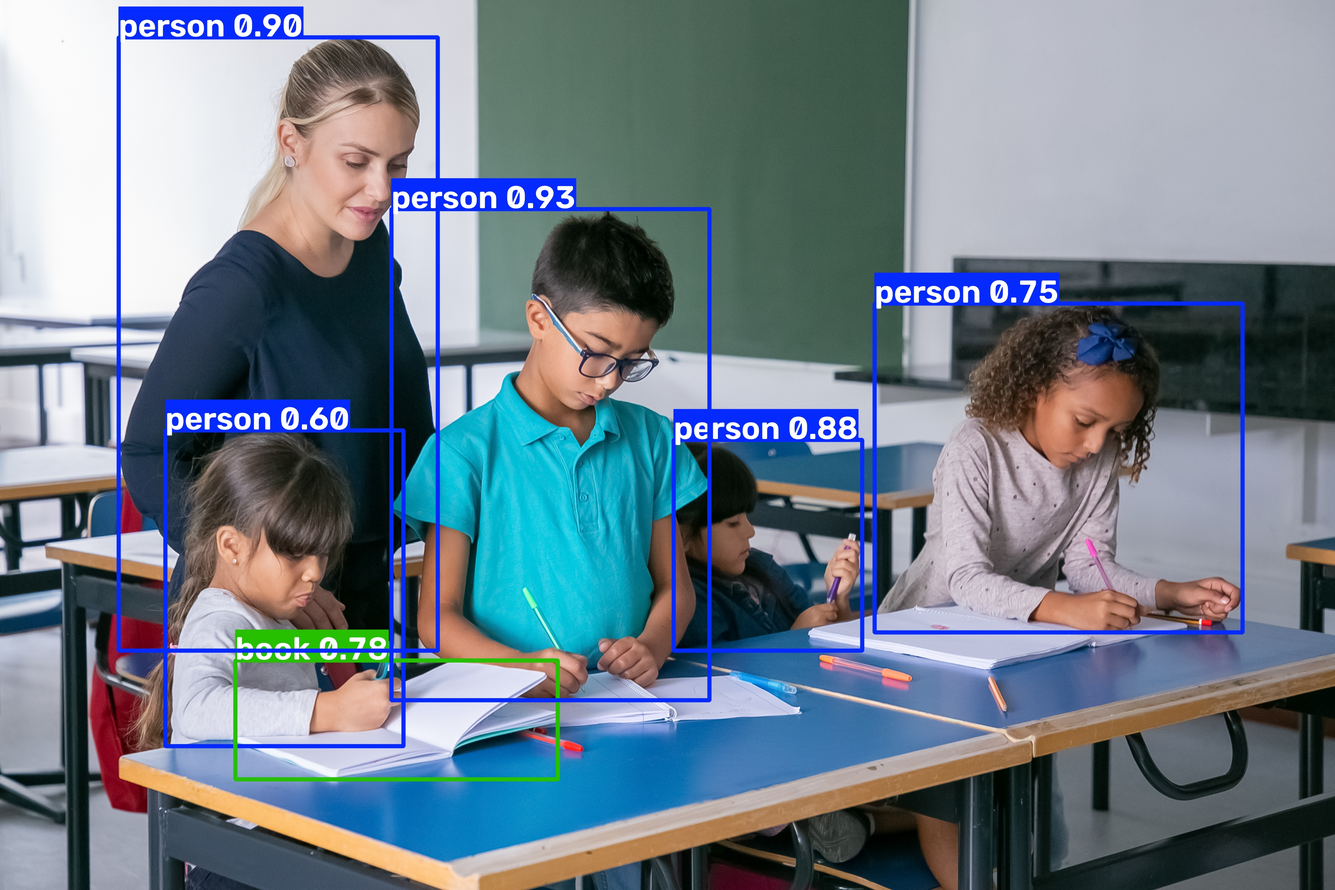
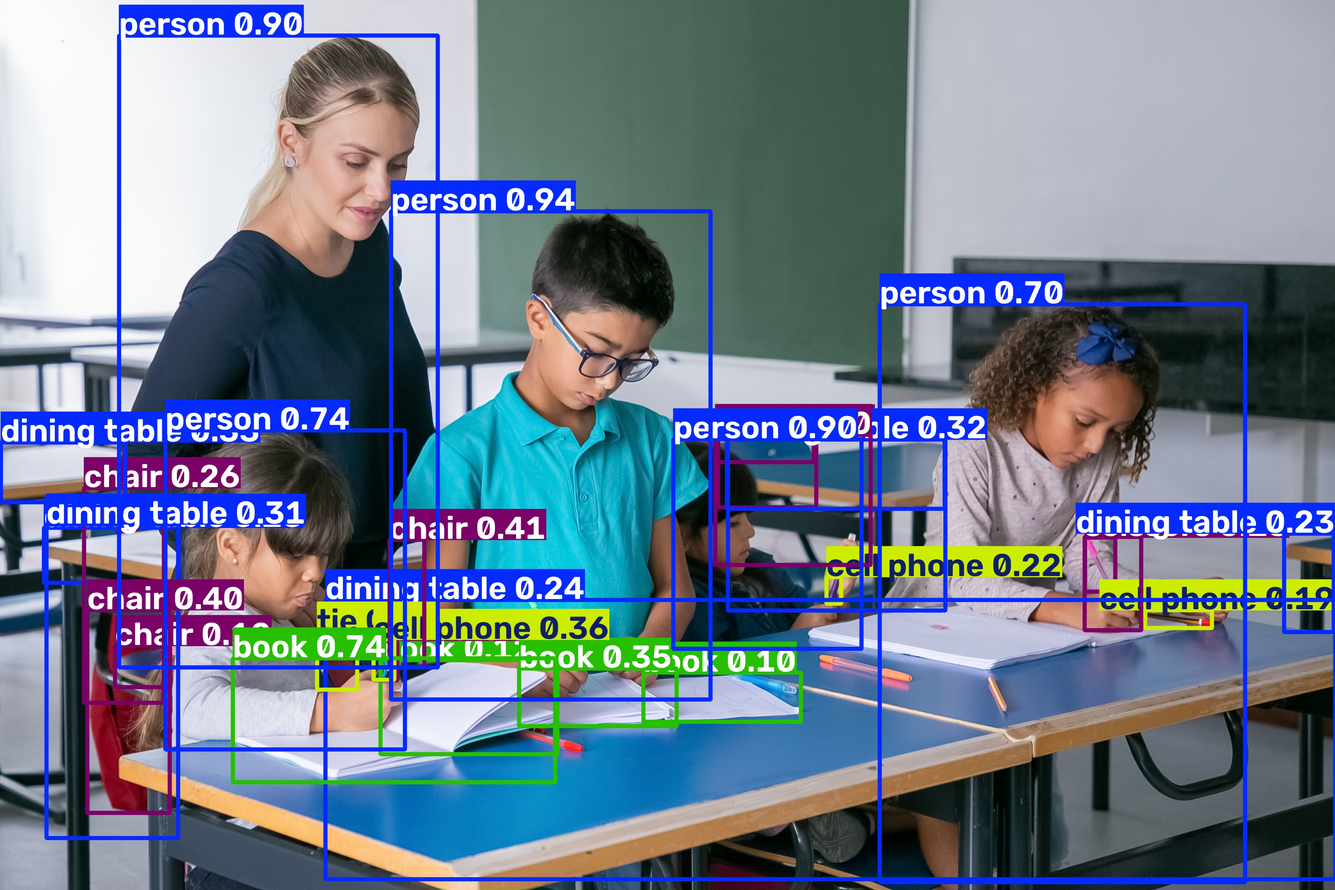
Updated detection code and output

Changed region(s): [[0.0, 0.3113, 1.0, 0.9963], [0.2803, 0.1868, 0.5294, 0.2491], [0.0934, 0.0, 0.3114, 0.0623]]

diff --git a/object_detection.py b/object_detection.py
@@ -1,67 +1,136 @@
 from ultralytics import YOLO
 import cv2
+import torch
 from collections import Counter
 
-# Load a more accurate YOLO model
-# Options:
-# yolov8n.pt (Fastest)
-# yolov8s.pt
-# yolov8m.pt (Recommended)
-# yolov8l.pt
+
+# ==========================================
+# 1. CHECK GPU
+# ==========================================
+
+print("CUDA available:", torch.cuda.is_available())
+
+if torch.cuda.is_available():
+    print("GPU:", torch.cuda.get_device_name(0))
+    device = 0
+else:
+    print("GPU not available")
+    device = "cpu"
+
+
+# ==========================================
+# 2. LOAD YOLOv8m
+# ==========================================
+
 model = YOLO("yolov8m.pt")
 
-print("YOLO Model Loaded Successfully")
+
+# ==========================================
+# 3. IMAGE
+# ==========================================
 
 image_path = "test2.jpg"
 
 image = cv2.imread(image_path)
 
 if image is None:
-    print("Error: Image not found!")
-    exit()
+    raise FileNotFoundError(
+        "test.jpg not found. Put test.jpg in the project folder."
+    )
 
-# Better detection settings
+
+# ==========================================
+# 4. DETECTION
+# ==========================================
+
 results = model.predict(
     source=image,
-    conf=0.50,      # Ignore detections below 50%
-    iou=0.45,       # Helps reduce duplicate boxes
-    imgsz=1280,     # Larger input for better small-object detection
-    max_det=100,
-    verbose=False
+    imgsz=1280,
+    conf=0.10,
+    iou=0.50,
+    augment=True,
+    device=device,
+    verbose=True
 )
 
-object_list = []
 
-for result in results:
+# ==========================================
+# 5. PROCESS RESULTS
+# ==========================================
 
-    boxes = result.boxes
+result = results[0]
 
-    for box in boxes:
+detected_objects = []
 
-        class_id = int(box.cls[0])
-        confidence = float(box.conf[0])
 
-        class_name = model.names[class_id]
+print("\n======================================")
+print("DETECTED OBJECTS")
+print("======================================")
 
-        object_list.append(class_name)
 
-        print(f"{class_name:15} Confidence: {confidence:.2f}")
+for box in result.boxes:
 
-counts = Counter(object_list)
+    class_id = int(box.cls.item())
 
-print("\n==========================")
+    confidence = float(box.conf.item())
+
+    object_name = model.names[class_id]
+
+    detected_objects.append(object_name)
+
+    print(
+        f"{object_name:<20}"
+        f"{confidence * 100:.2f}%"
+    )
+
+
+# ==========================================
+# 6. COUNT OBJECTS
+# ==========================================
+
+counts = Counter(detected_objects)
+
+
+print("\n======================================")
 print("OBJECT COUNT")
-print("==========================")
+print("======================================")
 
-for obj, count in counts.items():
-    print(f"{obj:15}: {count}")
 
-annotated = results[0].plot()
+if counts:
 
-cv2.imwrite("detected_output.jpg", annotated)
+    for object_name, count in counts.items():
 
-print("\nOutput image saved as detected_output.jpg")
+        print(
+            f"{object_name:<20}: {count}"
+        )
 
-cv2.imshow("YOLO Object Detection", annotated)
-cv2.waitKey(0)
-cv2.destroyAllWindows()
+else:
+
+    print("No objects detected.")
+
+
+# ==========================================
+# 7. SAVE RESULT
+# ==========================================
+
+output_image = result.plot()
+
+cv2.imwrite(
+    "detected_output.jpg",
+    output_image
+)
+
+
+print("\n======================================")
+print("DONE")
+print("======================================")
+
+print("Output saved as: detected_output.jpg")
+
+
+# ==========================================
+# 8. DISPLAY RESULT
+# ==========================================
+
+print("\nDetection completed successfully.")
+print("Open detected_output.jpg from the VS Code Explorer to view the result.")
